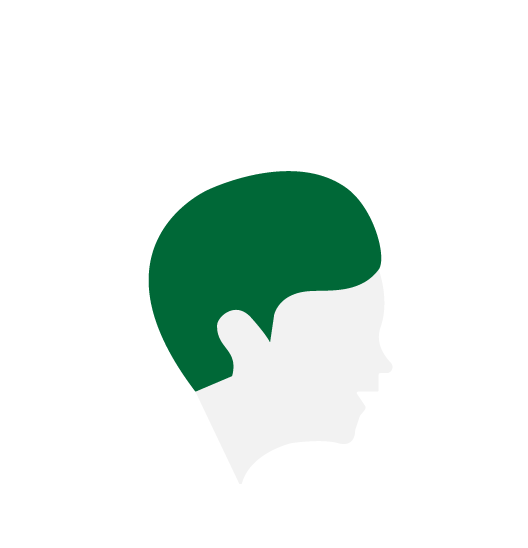
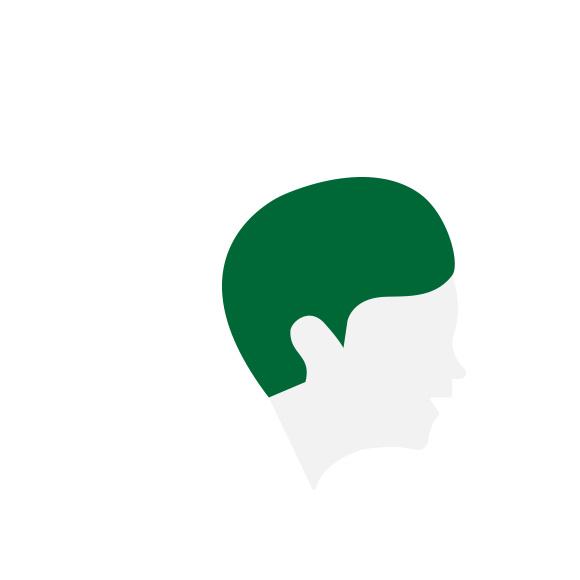
Version 2 User test

Changed region(s): [[0.2727, 0.2792, 0.7879, 0.7135]]

diff --git a/final/version 2/index.html b/final/version 2/index.html
@@ -22,12 +22,28 @@
     <title>studio1</title>
 </head>
     <body>
-      
+     
         <main>
+             <!--Info-->
+      <header>
+        <a href="#" class="open" id="myBtn"><img src="images/info.png" alt="info"></a>
+     </header>
+
+     <!-- The Modal -->
+     <div id="myModal" class="modal">
+     
+       <!-- Modal content -->
+       <div class="modal-content">
+            <p>Hey there, Welcome to Mad Horoscope! 
+            Start putting words as each label indicates, and select your birthday from the dropdown menu. Once you’re done click the submit button to see your today’s horoscope result. 
+            </p>
+            <span class="close">close</span>
+       </div>
+     </div>
+
+<!--content-->
             <section class="homeBase">
-                
-                <form id="myform">
-                      
+                <form id="myform">    
                     <div class="inputArea">
                     <label for="fname">Name</label><br>
                     <input type="text" name="fname" id="fname" required><br><br>
@@ -66,45 +82,35 @@
                 </form>
             </section>
 
-            <section id="rightColumn" class="rightColumn">
-                <div>                 
-                        <h2 id = "headline">MAD Horoscope</h2>
+            <section id="rightColumn" class="rightColumn">               
+                    <h2 id = "headline">MAD Horoscope</h2>
                     <img src="images/baseface.png" id="image1" alt="madlibs image">
-                    <img src="images/aries.png" id="image2" class="hidden">
-                </div>
+                    <img src="" id="birthday-image" alt="Birthday Image" class="hidden">
+                    <img src="images/aries.gif" id="aries" class="hidden">
+                    <img src="images/taurus.gif" id="taurus" class="hidden">
             </section>
             <!-- Madlibs Result-->
             <section id="overlay" class="hidden">
                 <article id="madlib">
                 </article>
             </section>
-
-            <!--Star Animation-->  
-            <canvas id="myCanvas"></canvas>	
-            <section>
-                <div class="stars-container">
-                    <div class="star"></div>
-                    <div class="star"></div>
-                    <div class="star"></div>
-                    <div class="star"></div>
-                    <div class="star"></div>
-                    <div class="star"></div>
-                    <div class="star"></div>
-                    <div class="star"></div>
-                    <div class="star"></div>
-                    <div class="star"></div>
-                    <div class="star"></div>
-                </div>
-                <div class="circle">
-                    <div class="text">Mad Horoscope</div>
-                </div>
-            </section>
+             <!--Star Animation-->  
+             <canvas id="myCanvas"></canvas>	
+             <section>
+                 <div class="stars-container">
+                     <div class="star"></div>
+                     <div class="star"></div>
+                     <div class="star"></div>
+                     <div class="star"></div>
+                     <div class="star"></div>
+                     <div class="star"></div>
+                     <div class="star"></div>
+                     <div class="star"></div>
+                     <div class="star"></div>
+                     <div class="star"></div>
+                     <div class="star"></div>
+                 </div>
+             </section>
         </main>
     </body>
 </html>
-
-<!--
-    section intro - main page
-    section input - 
-    section output - you might want to just change the section of the main page or create new html
--->

diff --git a/final/version 2/styles.css b/final/version 2/styles.css
@@ -10,8 +10,6 @@ h1 {
   padding-left: 60px;
   }
 
-
-
 body {
     font-family: 'Poppins', sans-serif;
     max-width: 1200px;
@@ -20,42 +18,93 @@ body {
     margin: auto;
     display: block;
     position: relative;
-    color: #2F2F2F;
-    background: linear-gradient(57deg, rgba(146,224,246,1) 0%, rgba(36,98,140,1) 51%, rgba(3,30,96,1) 100%);
+    color: #e6e8ef;
+    background: rgb(37,101,165);
+    background: linear-gradient(189deg, rgba(37,101,165,1) 0%, rgba(6,7,69,1) 100%);
     background-repeat: no-repeat;
-
 }
 
+/* Info section*/
+header {
+  height: 40px;
+  z-index: 1;
+}
+
+header img{
+  width: 2.5%;
+  position: absolute;
+  right: 26px;
+  top: 20px;
+  z-index: 1;
+}
+
+/* The Modal (background) */
+.modal {
+  display: none; /* Hidden by default */
+  position: fixed; /* Stay in place */
+  z-index: 2; /* Sit on top */
+  padding-top: 100px; /* Location of the box */
+  left: 0;
+  top: 0;
+  width: 100vw; /* Full width */
+  height: 100vh; /* Full height */
+  overflow: auto; /* Enable scroll if needed */
+  background-color: rgb(0,0,0); /* Fallback color */
+  background-color: rgba(0,0,0,0.4); /* Black w/ opacity */
+}
+
+/* Modal Content */
+.modal-content {
+  background-color: #fefefe;
+  margin: auto;
+  padding: 20px;
+  border: 1px solid #888;
+  width: 40%;
+  height: 30%;
+  color: #000;
+  line-height: 1.5em;
+  border-radius: 1em;
+}
+
+/* The Close Button */
+.close {
+  color: #aaaaaa;
+  float: right;
+  font-size: 18px;
+  font-weight: 2pt;
+  margin-top: 24px;
+}
+
+.close:hover,
+.close:focus {
+  color: #000;
+  text-decoration: none;
+  cursor: pointer;
+}
+
+/*Content*/
 main {
-    /* margin: 0px, 30px; */
     font-weight: 400;
     position: relative;
     display: flex;
-    padding: 2em;
+    padding-top: 4em;
 }
 
 section {
   /* margin: 10px; */
-  padding: 10px 30px;
+  padding: 30px 100px;
   display: block;
 }
 
-section .rightColumn {
-  padding: 0px 40px 0px 20px;
-  margin: 0px;
-}
-
-#madHeader {
-  width: 400px;
-  padding: 0 2.4em;
-  position: relative;
-  margin-left: 100px;
-  margin-top: 40px;
+section #rightColumn {
+  width: 540px;
+  padding-top: 50px;
 }
 
 #headline {
   font-family: 'Rampart One', cursive;
-  font-size: 40px;
+  font-size: 52px;
+  width: 440px;
 }
 
 input[type="text"] {
@@ -83,8 +132,9 @@ input[type="text"]:focus {
   line-height: 1.2em;
   position: relative;
   margin-left: 100px;
-  top: 0;
+  top: 20px;
   margin-top: 0;
+  z-index: 1;
 }
 
 select {
@@ -117,15 +167,15 @@ input[type=submit] {
 	}
 }
 
-img {
-  width: 520px;
+#rightColumn img {
+  width: 420px;
   height: auto;
   overflow: hidden;
 	transform: translatey(0px);
 	animation: float 3s ease-in-out infinite;
   margin: 0;
   position: absolute;
-  bottom: 55px;
+  bottom: 5px;
   /* right: 32px; */
 }
 
@@ -169,21 +219,21 @@ img {
   /* transition-duration: 2s; */
   transition-timing-function: ease;
   /* animation-duration: 1s; */
+  z-index: 1;
 
   animation: fadeInAnimation ease 4s;
   animation-iteration-count: 1;
 }
 
-#image2 {
-  width: 520px;
+#aries{
+  width: 420px;
   height: auto;
   overflow: hidden;
 	transform: translatey(0px);
 	animation: float 3s ease-in-out infinite;
   position: absolute;
-  bottom: 30px;
-  right: 40px;
-  top: 20%
+  bottom: 0;
+  right: 18%;
 }
 
 
@@ -310,4 +360,8 @@ img {
     opacity: 1;
     transform: translateY(0);
   }
+}
+
+#myCanvas section .stars-container {
+  z-index: 1;
 }

diff --git a/final/version 2/script.js b/final/version 2/script.js
@@ -2,12 +2,6 @@
   'use strict';
   console.log('reading.js');
 
-  const myform = document.getElementById('myform');
-  const madlib = document.querySelector('#madlib');
-
-  
-
-
   myform.addEventListener('submit', function(event){
       event.preventDefault();
       document.getElementsByClassName('homeBase')[0].className = 'hidden';
@@ -42,13 +36,12 @@
           is likely to <strong>${verb}</strong>, and you may have absolutely no understanding of why they're there. 
           Try not to take this <strong>${adverb}</strong>.
           <p class=reset><a href=""><strong>Try again</strong></a></p>`; 
-
         
       }
 
       madlib.innerHTML = myText;
       document.getElementById('overlay').className = 'showing';
-      document.getElementById('image2').className = 'showing';
+      document.getElementById('aries').className = 'showing';
       document.getElementById('image1').className = 'hidden';
       document.getElementById('headline').className = 'hidden';
   })
@@ -74,5 +67,51 @@
     }
   };
 
+
+//   birthdayInput.addEventListener('submit', function(event){
+//     event.preventDefault();
+//     document.getElementsByClassName('rightColumn')[0].className = 'hidden';
+//   const birthdayImage = document.getElementById("birthday-image");
+
+//   let imageSource = "";
+
+//   // Check the birthday value and set the image source accordingly
+//   if (birthdayValue === "Aries") {
+//     imageSource = "images/aries.gif";
+//   } else if (birthdayValue === "Taurus") {
+//     imageSource = "images/taurus.gif";
+//   } else {
+//     // Use a default image if no match is found
+//     imageSource = "images/baseface.png";
+//   }
+
+//   birthdayImage.src = imageSource;
+// });
+
+// Get the modal
+var modal = document.getElementById("myModal");
+
+// Get the button that opens the modal
+var btn = document.getElementById("myBtn");
+
+// Get the <span> element that closes the modal
+var span = document.getElementsByClassName("close")[0];
+
+// When the user clicks the button, open the modal 
+btn.onclick = function() {
+  modal.style.display = "block";
+}
+
+// When the user clicks on <span> (x), close the modal
+span.onclick = function() {
+  modal.style.display = "none";
+}
+
+// When the user clicks anywhere outside of the modal, close it
+window.onclick = function(event) {
+  if (event.target == modal) {
+    modal.style.display = "none";
+  }
+}
 
   }())
